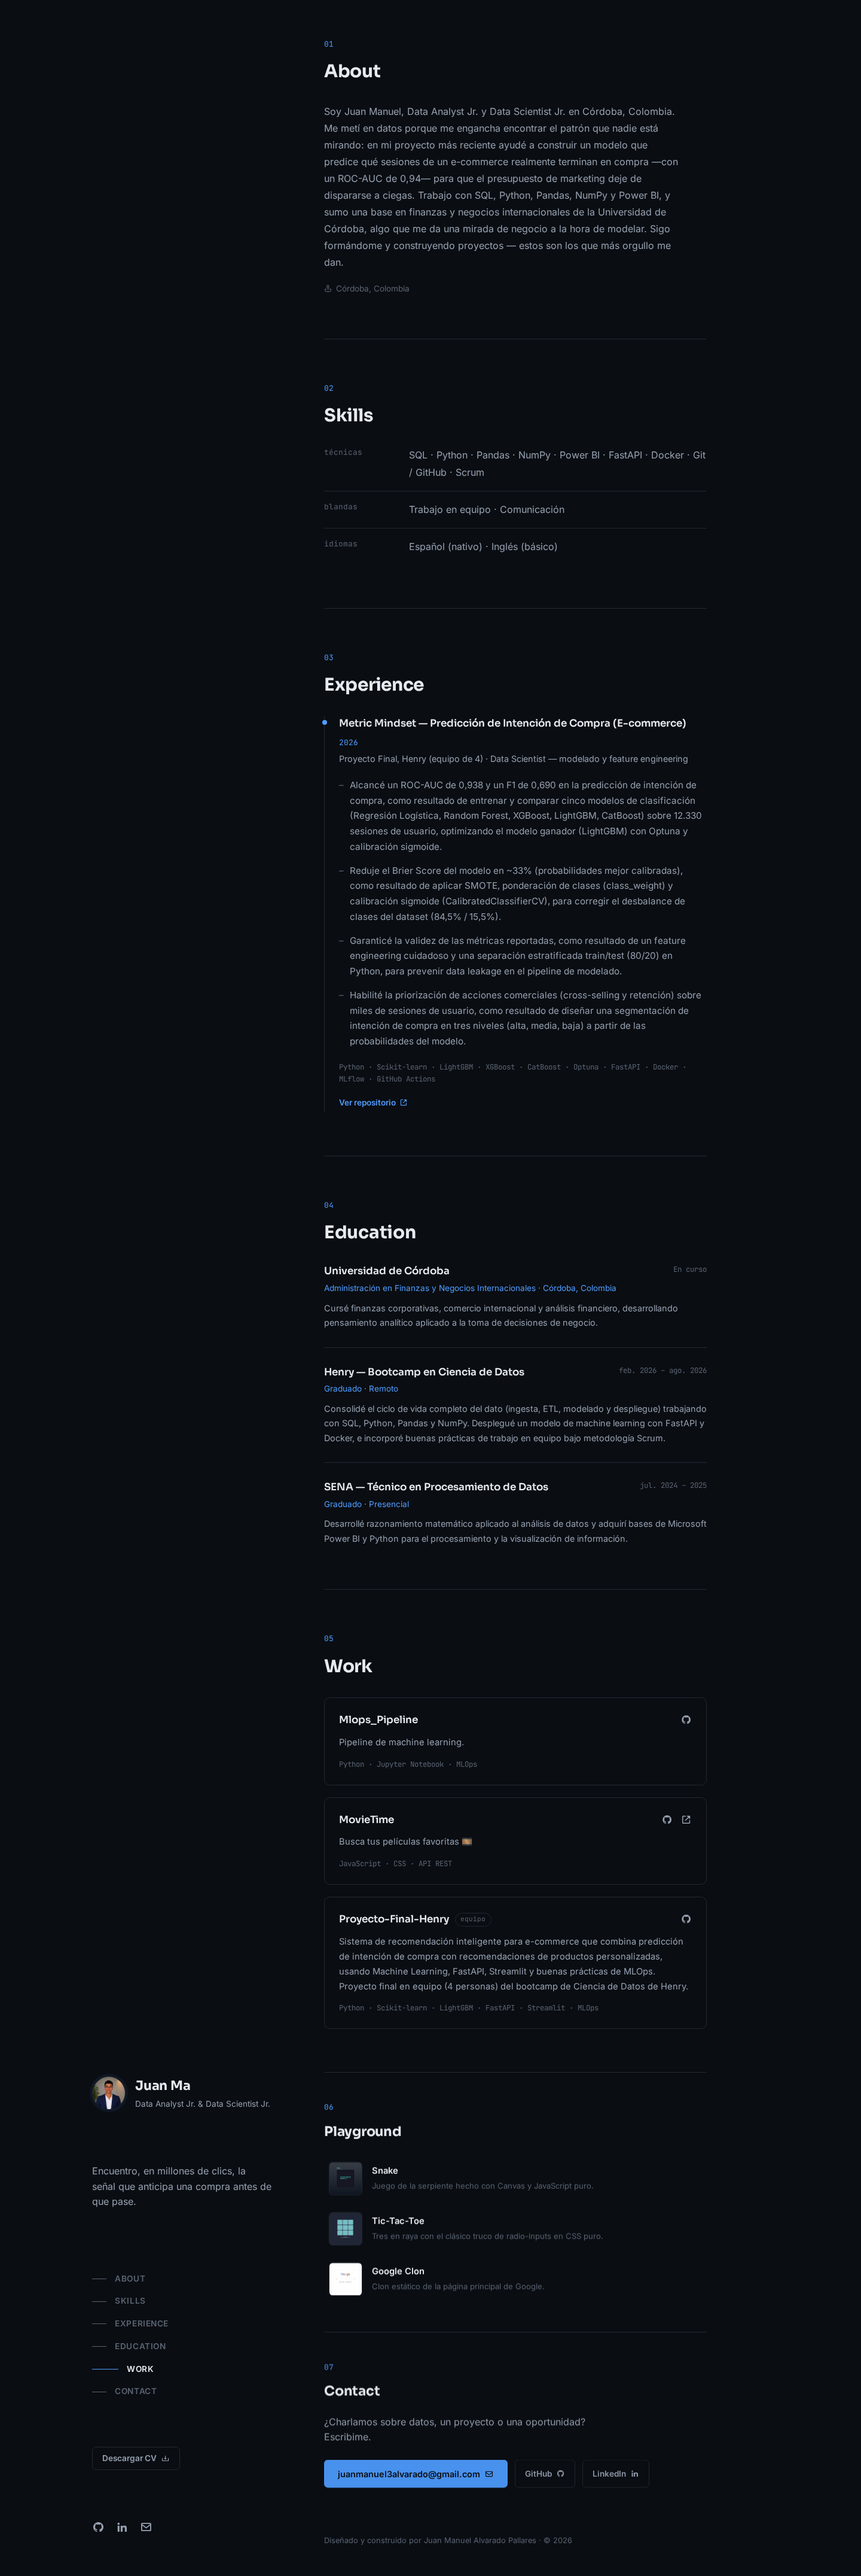
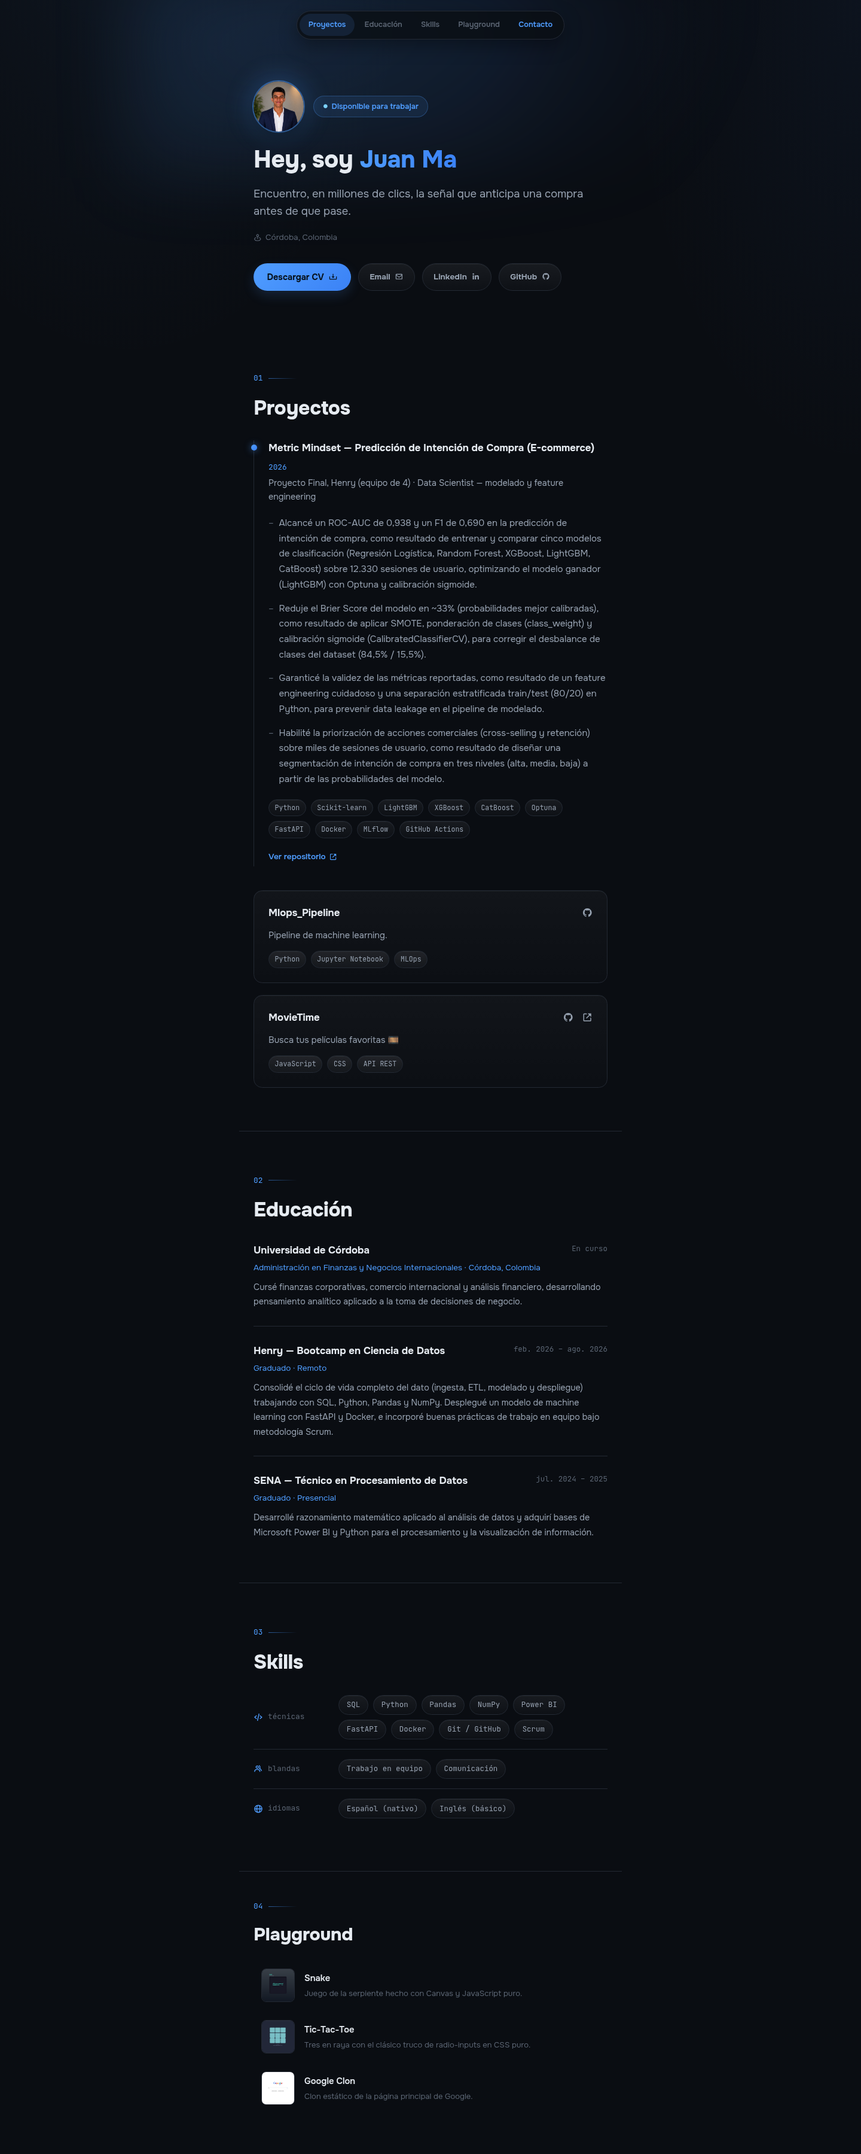
Reescribe el README con storytelling y actualiza capturas; agrega licencia MIT

diff --git a/README.md b/README.md
@@ -1,8 +1,28 @@
 # Portafolio — Juan Manuel Alvarado Pallares
 
-Sitio personal de **Juan Manuel Alvarado Pallares**, Data Analyst Jr. & Data Scientist Jr., con perfil, experiencia, educación y proyectos reales de análisis de datos y machine learning.
+> *"Encuentro, en millones de clics, la señal que anticipa una compra antes de que pase."*
+
+Un CV en PDF no hace scroll, no tiene glow y no puede mostrar un modelo con ROC-AUC de 0,938 corriendo en un demo. Por eso construí este sitio: un lugar donde mis proyectos de datos reales, mi formación y mi forma de resolver problemas se puedan explorar en un par de minutos, en vez de leerse en una hoja de papel.
 
 🔗 **Sitio publicado:** [juanma-alvarado.github.io/PortafolioWeb](https://juanma-alvarado.github.io/PortafolioWeb/)
+
+## Tabla de contenidos
+
+- [¿Por qué este proyecto?](#por-qué-este-proyecto)
+- [Capturas](#capturas)
+- [Características principales](#características-principales)
+- [Correr en local](#correr-en-local)
+- [El proceso](#el-proceso)
+- [Estructura](#estructura)
+- [Recursos útiles](#recursos-útiles)
+- [Licencia](#licencia)
+- [Autor](#autor)
+
+## ¿Por qué este proyecto?
+
+Soy Data Analyst Jr. y Data Scientist Jr., y como casi todo junior, mi mejor argumento no es la experiencia sino la evidencia: proyectos terminados, métricas reales, código que corre. Necesitaba un espacio propio para mostrar eso sin depender de la plantilla de un PDF ni de un perfil de LinkedIn que compite con miles de perfiles iguales.
+
+Quería que quien entrara pudiera responder rápido tres preguntas: *¿qué sabe hacer?*, *¿con qué herramientas?* y *¿tiene algo real detrás?* — sin scrollear infinito ni leer un muro de texto. De ahí salieron las decisiones de diseño: un proyecto destacado con métricas en vez de una lista genérica, chips en vez de párrafos de tecnologías, y una sola pantalla de entrada que resume quién soy en cinco segundos.
 
 ## Capturas
 
@@ -17,25 +37,15 @@ Sitio personal de **Juan Manuel Alvarado Pallares**, Data Analyst Jr. & Data Sci
 
 </details>
 
-## Tecnologías
+## Características principales
 
-- [React 18](https://react.dev/) + [Vite](https://vitejs.dev/) — SPA de una sola página con navegación por anclas.
-- CSS plano con *custom properties* (sin frameworks de CSS) — paleta dark con acentos azules, tipografía Sora (títulos) + Inter (cuerpo), JetBrains Mono solo en detalles pequeños.
-- [Boxicons](https://boxicons.com/) para iconografía.
-- Sin backend: contacto vía enlaces reales (`mailto:`, GitHub, LinkedIn) y descarga directa del CV.
-
-## Estructura
-
-```
-├── index.html          # entry point de Vite
-├── src/
-│   ├── components/      # Sidebar, About, Skills, Experience, Education, Projects, ExtraProjects, Contact, Footer
-│   ├── data/content.js  # todo el contenido (perfil, experiencia, educación, skills, proyectos)
-│   ├── styles/index.css # tema visual (variables de color, tipografía, layout)
-│   └── hooks/useReveal.js
-├── public/              # assets estáticos (imagen de perfil, CV, mini-proyectos viejos)
-└── docs/                 # ⚠ carpeta GENERADA por `npm run build` — no editar a mano, la sirve GitHub Pages
-```
+- **Un proyecto, no una lista.** El proyecto más relevante (predicción de intención de compra en e-commerce) aparece destacado con sus métricas reales — ROC-AUC 0,938, F1 0,690 — y sus decisiones técnicas, no solo el nombre del repo.
+- **Cero contenido de relleno.** Cada dato viene del CV real: formación, stack, logros. Nada de *lorem ipsum* ni placeholders.
+- **Diseño propio, no una plantilla.** Sistema visual construido a mano: glow azul ambiental, glassmorphism sutil, tipografía [Onest](https://fonts.google.com/specimen/Onest) y una paleta pensada para no saturar.
+- **Navegación flotante centrada** que seduce y resalta la sección activa mientras se scrollea.
+- **Accesos directos de verdad.** Descargar CV, escribir por mail, LinkedIn y GitHub están a un clic desde la primera pantalla — sin formularios de contacto que nadie revisa.
+- **Responsive de punta a punta**, con animaciones de entrada sutiles que no distraen del contenido.
+- **Playground.** Tres mini-proyectos de práctica (Snake, Tic-Tac-Toe, clon de Google) conservados aparte, como bitácora de aprendizaje.
 
 ## Correr en local
 
@@ -48,7 +58,30 @@ npm run dev
 
 Abre `http://localhost:5173/PortafolioWeb/`.
 
-## Build y despliegue
+## El proceso
+
+Este sitio no nació así. Empezó como un layout de sidebar fijo con foto circular, pasó por un rediseño visual inspirado en la estética editorial de [librosgratis.dev](https://librosgratis.dev/) (glows, tipografía serif, glassmorphism), y terminó reestructurado a un layout vertical de una sola columna con nav flotante, tomando como referencia directa la organización de [porfolio.dev](https://porfolio.dev/). Cada iteración se probó en pantalla real antes de darla por buena — no hay cambio de diseño en este repo que no se haya visto correr en un navegador primero.
+
+**Decisiones de stack:**
+
+- **React + Vite**, sin meta-framework: es un sitio estático de una sola página, no necesita SSR ni routing.
+- **CSS plano con custom properties**, sin Tailwind ni librerías de componentes — todo el sistema de color, tipografía y espaciado vive en variables reutilizables en `src/styles/index.css`.
+- **Sin backend ni formularios**: el contacto son enlaces reales (`mailto:`, GitHub, LinkedIn) y una descarga directa del CV. Menos piezas que puedan romperse.
+
+## Estructura
+
+```
+├── index.html          # entry point de Vite
+├── src/
+│   ├── components/      # Header (nav flotante), Hero, Projects, Education, Skills, ExtraProjects, Footer, Loader
+│   ├── data/content.js  # todo el contenido (perfil, experiencia, educación, skills, proyectos)
+│   ├── styles/index.css # tema visual (variables de color, tipografía, layout)
+│   └── hooks/useReveal.js
+├── public/              # assets estáticos (imagen de perfil, CV, mini-proyectos viejos)
+└── docs/                 # ⚠ carpeta GENERADA por `npm run build` — no editar a mano, la sirve GitHub Pages
+```
+
+### Build y despliegue
 
 El sitio se publica con **GitHub Pages** sirviendo la carpeta `docs/` de la rama `master`. No hay CI: el build se genera y se commitea a mano.
 
@@ -59,6 +92,20 @@ git commit -m "build: actualizar sitio publicado"
 git push
 ```
 
-## Otros experimentos
+## Recursos útiles
 
-La sección "Playground" del sitio enlaza 3 mini-proyectos previos guardados en `public/proyectos/`: un juego de Snake, un Tic-Tac-Toe en CSS puro y un clon estático de Google — se conservan como piezas de práctica, separadas de los proyectos principales.
+- [React](https://react.dev/) y [Vite](https://vitejs.dev/) — documentación oficial.
+- [Boxicons](https://boxicons.com/) — iconografía usada en toda la interfaz.
+- [Onest](https://fonts.google.com/specimen/Onest) — la tipografía variable del sitio.
+- [porfolio.dev](https://porfolio.dev/) y [librosgratis.dev](https://librosgratis.dev/) — referencias de diseño que inspiraron la estructura y el sistema visual.
+- Iteraciones de diseño y refactor hechas en pareja con [Claude Code](https://claude.com/claude-code).
+
+## Licencia
+
+El código de este repositorio se distribuye bajo licencia **MIT** — usalo, adaptalo, aprendé de él. El contenido personal (foto, CV, biografía, proyectos descritos) no está cubierto por la licencia y sigue siendo propiedad de su autor.
+
+## Autor
+
+**Juan Manuel Alvarado Pallares** — Data Analyst Jr. & Data Scientist Jr., Córdoba, Colombia.
+
+[GitHub](https://github.com/Juanma-Alvarado) · [LinkedIn](https://www.linkedin.com/in/juanma-alvarado/)
